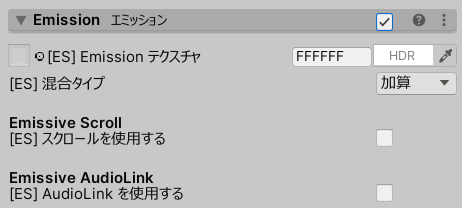
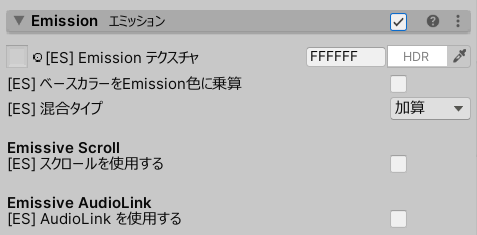
UnlitWF 2.5.0 を追加

diff --git a/sidebars.js b/sidebars.js
@@ -75,6 +75,11 @@ const sidebars = {
         },
         {
           type: 'doc',
+          id: 'unlitwf/WF-AvatarMenu',
+          label: 'アバター向けメニュー',
+        },
+        {
+          type: 'doc',
           id: 'unlitwf/Redistribution',
           label: '再配布について',
         },

diff --git a/docs/unlitwf/WF-AvatarMenu.md b/docs/unlitwf/WF-AvatarMenu.md
@@ -1,0 +1,39 @@
+# UnlitWF アバターメニュー
+
+VRCSDK3 アバター向けに、マテリアルを微調整するExpressionメニューを追加できます。
+
+![Image](./img/avatarmenu-01.png)
+
+
+## アバターメニューの使い方
+
+- `ライトなし明度`
+	- ライト[^1]からの光がゼロのときの明るさを調整します。50% のときは標準値、値を大きくすると明るく、値を小さくすると暗くなります。
+- `ライト方向`
+	- ライト無しシーンでのライト方向を調整します。0% がワールド座標系 -Z 方向、50% がワールド座標系 +Z 方向で、ラジアルパペットで方向を調整できます。
+- `ライト無視`
+	- オンにすると、シーンにライトが合っても `ライト方向` をマテリアルに適用します。
+- `逆光ライト`
+	- アバターに逆光ライトを使用したマテリアルが含まれているときに項目が現れます。逆光ライトの強度を調整できます。
+
+数値はクライアント間で共有されます(Synced)。保存はされません(not Saved)。
+
+[^1]: リアルタイムライトとライトプローブを含む
+
+## アバターへの導入方法
+
+Hierarchy にてアバターを右クリックして `UnlitWF Shader` → `WFアバターメニュー追加` を選択して、コンポーネントをアバターに追加します。
+
+![Image](./img/avatarmenu-02.png)
+
+- コンポーネントはアバター内のどこに配置されていても動作します。
+- コンポーネントが複数設置されていてもひとつだけ設置されていたときと同じ動作となります。
+- アバター内に UnlitWF のマテリアルが見つからなかった場合、メニューは追加されません。
+
+
+## 依存パッケージについて
+
+アバターメニュー追加の処理は `Modular Avatar` を利用しています。
+https://modular-avatar.nadena.dev/ja
+
+ModularAvatar を未導入の環境では、アバターメニュー追加の処理は無視されます。また「WFアバターメニュー追加」のメニューも表示されません。

diff --git a/docs/unlitwf/Manual-UnToon.md b/docs/unlitwf/Manual-UnToon.md
@@ -189,6 +189,17 @@ ToonShade の詳細を ToonShade Advance から設定できます。
 
 ![Image](./img/untoon-man-35.png)
 
+### BackLight 逆光ライト {#BackLight}
+
+逆光ライトの設定です。逆光ライトはリムライトに近いですが、逆光条件にてより強い光量を加算することに特化した機能です。
+
+![Image](./img/untoon-man-38.png)
+
+- `強度` で強さをカスタマイズできます。0.0 は加算なし、1.0 で最大強度です。
+- `可視範囲` は逆光ライトをオンにする範囲を設定します。1.0 はモデル真横からでも逆光ライトが見えます。小さくするにつれて範囲が狭くなり、0.0 では完全な逆光でないと見えません。
+- 逆光ライトの描画範囲は `幅` で調整できます。幅に設定した範囲で逆光ライトを描画し、さらに追加で `ぼかし幅` に設定した範囲に逆光ライトを弱めに追加します。
+- `カメラ補正` では、光源方向と視点位置によって逆光ライトの掛かり方を調整します。1.0 では逆光ライトが広めに描画されます。-1.0 は逆光ライトが細めに描画されます。
+
 ### Overlay Texture オーバーレイテクスチャ {#OverlayTexture}
 
 質感を微調整するテクスチャを設定することができます。Detail Albedo やデカールテクスチャなどの詳細マップはここで設定してください。

diff --git a/docs/unlitwf/CHANGELOG.md b/docs/unlitwf/CHANGELOG.md
@@ -3,6 +3,25 @@ toc_min_heading_level: 2
 toc_max_heading_level: 2
 ---
 
+## 2024/11/23 (2.5.0)
+https://github.com/whiteflare/Unlit_WF_ShaderSuite/releases/tag/UnlitWF_Shader_20241123
+
+### Added
+- Shader
+  - 逆光ライト機能を追加しました。従来のリムライト機能よりさらに明るい光を加算合成します。
+- GUI
+  - VRCSDK3 Avatars 向け、マテリアルの明るさ等を調整するメニューを追加する機能を追加しました。
+    - NDMFおよびModularAvatarと連携してExpressionメニューを追加します。それらが存在しないプロジェクトではメニュー追加機能のみ無効となります。
+    - UnlitWF のVPMパッケージ版に機能が含まれています。unitypackage版にはこの機能は含まれていません。
+
+### Changed
+- Shader
+  - エミッションでメインカラーを混合するToggleを追加しました。
+- Tool
+  - 「UnlitWFのマテリアルに変換する」にてエミッションの変換処理を改良しました。メインテクスチャが設定されているのにエミッションテクスチャが未設定のときにはエミッションをオフにするように変更しました。
+
+----
+
 ## 2024/10/14 (2.4.0)
 https://github.com/whiteflare/Unlit_WF_ShaderSuite/releases/tag/UnlitWF_Shader_20241014
 
